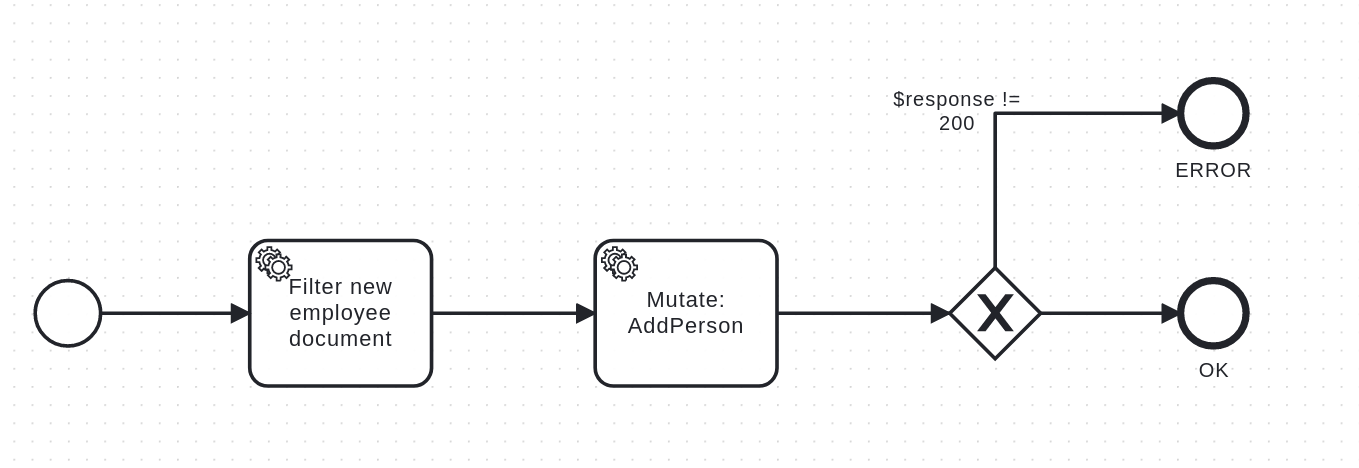
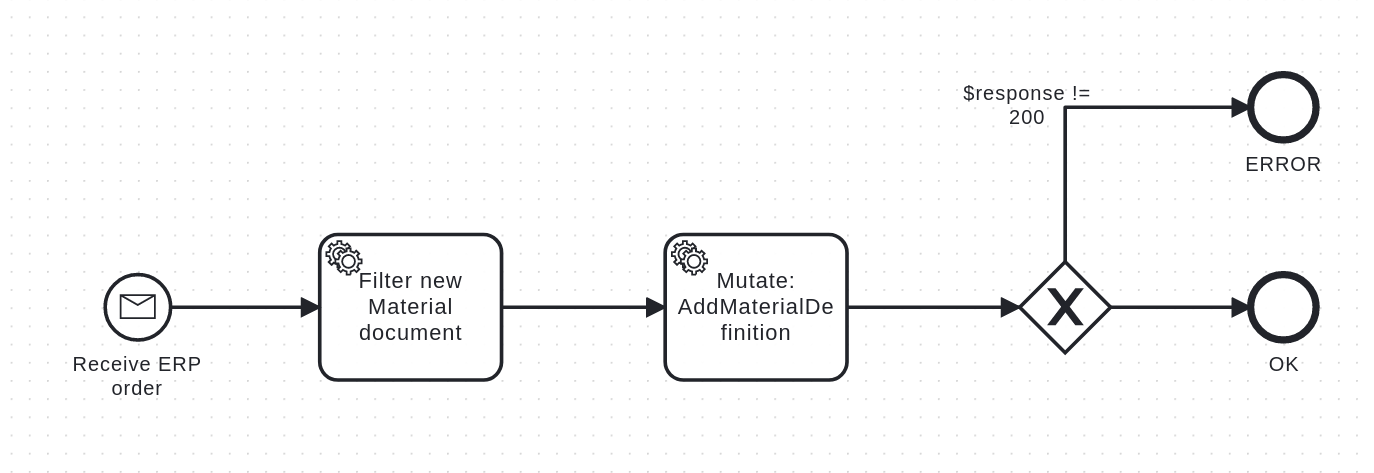
Deploy preview for PR 38 🛫

diff --git a/pr-preview/pr-38/how-to/create-workflows/create-bmpn/index.html b/pr-preview/pr-38/how-to/create-workflows/create-bmpn/index.html
@@ -1,13 +1,31 @@
 <!doctype html><html lang=en class="js csstransforms3d"><head><script></script><meta charset=utf-8><meta name=viewport content="width=device-width,initial-scale=1,maximum-scale=1,user-scalable=no"><meta name=referrer content="no-referrer-when-downgrade"><meta property="og:image" content="https://libremfg.github.io/images/rhize-logo.png"><meta property="og:type" content="website"><meta property="og:title" content><meta property="og:site_name" content><meta property="og:url" content="https://libremfg.github.io/how-to/create-workflows/create-bmpn/"><meta property="og:locale" content="en"><meta name=generator content="Hugo 0.120.4"><meta name=description content="Create BPMN workflows to handle inputs, react to events, process data, and throw triggers."><link rel=canonical href=https://libremfg.github.io/how-to/create-workflows/create-bmpn/><link rel=apple-touch-icon sizes=57x57 href=https://libremfg.github.io/images/favicons/apple-touch-icon-57x57.png><link rel=apple-touch-icon sizes=60x60 href=https://libremfg.github.io/images/favicons/apple-touch-icon-60x60.png><link rel=apple-touch-icon sizes=72x72 href=https://libremfg.github.io/images/favicons/apple-touch-icon-72x72.png><link rel=apple-touch-icon sizes=76x76 href=https://libremfg.github.io/images/favicons/apple-touch-icon-76x76.png><link rel=apple-touch-icon sizes=114x114 href=https://libremfg.github.io/images/favicons/apple-touch-icon-114x114.png><link rel=apple-touch-icon sizes=120x120 href=https://libremfg.github.io/images/favicons/apple-touch-icon-120x120.png><link rel=apple-touch-icon sizes=144x144 href=https://libremfg.github.io/images/favicons/apple-touch-icon-144x144.png><link rel=apple-touch-icon sizes=152x152 href=https://libremfg.github.io/images/favicons/apple-touch-icon-152x152.png><link rel=apple-touch-icon sizes=180x180 href=https://libremfg.github.io/images/favicons/apple-touch-icon-180x180.png><link rel=icon type=image/png href=https://libremfg.github.io/images/favicons/favicon-32x32.png sizes=32x32><link rel=icon type=image/png href=https://libremfg.github.io/images/favicons/android-chrome-192x192.png sizes=192x192><link rel=icon type=image/png href=https://libremfg.github.io/images/favicons/favicon-96x96.png sizes=96x96><link rel=icon type=image/png href=https://libremfg.github.io/images/favicons/favicon-16x16.png sizes=16x16><link rel=manifest href=https://libremfg.github.io/images/favicons/manifest.json><link rel=mask-icon href=https://libremfg.github.io/images/favicons/safari-pinned-tab.svg color=#fe2c06><link rel="shortcut icon" href=https://libremfg.github.io/images/favicons/favicon.ico><link rel=stylesheet href=//cdnjs.cloudflare.com/ajax/libs/highlight.js/9.10.0/styles/default.min.css><script src=//cdnjs.cloudflare.com/ajax/libs/highlight.js/9.10.0/highlight.min.js></script><script async src=//cdnjs.cloudflare.com/ajax/libs/highlight.js/9.10.0/languages/go.min.js></script><script async src=//cdnjs.cloudflare.com/ajax/libs/highlight.js/9.10.0/languages/java.min.js integrity="sha256-RyOs5MjQ+Ef9DQrPHp4QGr2tcNjxLh6mCkkW+sS4doU=" crossorigin=anonymous></script><script src=//code.jquery.com/jquery-3.2.1.min.js integrity="sha256-hwg4gsxgFZhOsEEamdOYGBf13FyQuiTwlAQgxVSNgt4=" crossorigin=anonymous></script><script src=//cdnjs.cloudflare.com/ajax/libs/codemirror/5.25.0/codemirror.js integrity="sha256-x3BtPVERvw1ozPlwivuFLZoViFCeAAs1Gt6SxEedmo8=" crossorigin=anonymous></script><link href=//cdnjs.cloudflare.com/ajax/libs/codemirror/5.25.0/codemirror.css rel=stylesheet integrity="sha256-7sZe9dsqyNZC9Mk+WPRB7nVvPPPXyorzm2QKqlgXC4k=" crossorigin=anonymous><script async src=//cdnjs.cloudflare.com/ajax/libs/codemirror/5.25.0/addon/edit/closebrackets.min.js integrity="sha256-qhu2a7DSpQaammMaLw1iruxBpxmgdw8mdQaQWQUokcY=" crossorigin=anonymous></script><script async src=//cdnjs.cloudflare.com/ajax/libs/codemirror/5.25.0/mode/javascript/javascript.min.js integrity="sha256-7Bdg/UdDMmHDPafpQDYZNPCEbnRP7eAvu+2hEoqRCXs=" crossorigin=anonymous></script><title>Create BPMN workflows - How to
-</title><link href=https://libremfg.github.io/css/theme.css?d60bfe25dc4f4f799f6192d27a65dc20 rel=stylesheet><link href=https://libremfg.github.io/css/runnable.css?46648956d99faa2e057d109b9f2a52e6 rel=stylesheet><link href=https://libremfg.github.io/css/tabs.css?035edc32762cb7973b740e3067101ced rel=stylesheet><link href=//maxcdn.bootstrapcdn.com/bootstrap/4.0.0-alpha.6/css/bootstrap.min.css rel=stylesheet integrity=sha384-rwoIResjU2yc3z8GV/NPeZWAv56rSmLldC3R/AZzGRnGxQQKnKkoFVhFQhNUwEyJ crossorigin=anonymous><script src=//cdnjs.cloudflare.com/ajax/libs/tether/1.4.0/js/tether.min.js integrity=sha384-DztdAPBWPRXSA/3eYEEUWrWCy7G5KFbe8fFjk5JAIxUYHKkDx6Qin1DkWx51bBrb crossorigin=anonymous></script><script src=//maxcdn.bootstrapcdn.com/bootstrap/4.0.0-alpha.6/js/bootstrap.min.js integrity=sha384-vBWWzlZJ8ea9aCX4pEW3rVHjgjt7zpkNpZk+02D9phzyeVkE+jo0ieGizqPLForn crossorigin=anonymous></script><link href="//fonts.googleapis.com/css?family=Lato:400,700" rel=stylesheet><link href=//maxcdn.bootstrapcdn.com/font-awesome/4.7.0/css/font-awesome.min.css rel=stylesheet integrity=sha384-wvfXpqpZZVQGK6TAh5PVlGOfQNHSoD2xbE+QkPxCAFlNEevoEH3Sl0sibVcOQVnN crossorigin=anonymous><link href=https://cdn.lineicons.com/2.0/LineIcons.css rel=stylesheet crossorigin=anonymous><link rel=stylesheet href=//cdn.jsdelivr.net/npm/docsearch.js@2/dist/cdn/docsearch.min.css></head><body><nav id=header><div class=header-left><div><a href=https://libremfg.github.io/get-started/introduction class=brand><img src=https://libremfg.github.io/images/rhize-logo.png alt=RHIZE class=logo></a><div class=logo-tagline><span>DRAFT Documentation</span></div></div></div><div class=header-right><div style=margin-top:10px><div class="menu-search align-middle"><div class=menu-search-inner><input type=search class="form-control form-control-sm" placeholder="Search documentation" aria-label="Search docs" autocomplete=off></div></div></div><div><ul class=menu><li><a href=https://libremfg.com/features-gql target=_blank>Home</a></li><li><a href=https://discord.gg/ZRpUBXmrkV target=_blank>Community</a></li><li><a href=https://github.com/libremfg/libremfg.github.io target=_blank>GitHub</a></li></ul></div></div><a href=# id=sidebar-toggle><i class="fa fa-bars"></i></a></nav><aside id=sidebar><ul class=topics><li class="topic main-topic children"><a id=get-started href=#>Get started</a><div class=arrow-down></div><ul class=sub-topics><li class="topic sub-topic"><a href=https://libremfg.github.io/get-started/introduction/>What is Rhize?</a></li><li class="topic sub-topic"><a href=https://libremfg.github.io/get-started/how-rhize-works/>How Rhize works</a></li></ul></li><li class="topic main-topic children"><a id=deploy href=#>Deploy</a><div class=arrow-down></div><ul class=sub-topics><li class="topic sub-topic"><a href=#>Install</a><div class=arrow-down></div><ul class=sub-topics><li class="topic sub-topic"><a href=https://libremfg.github.io/deploy/install/overview/>Overview</a></li><li class="topic sub-topic"><a href=https://libremfg.github.io/deploy/install/setup-kubernetes/>Set up Kubernetes</a></li><li class="topic sub-topic"><a href=https://libremfg.github.io/deploy/install/keycloak/>Configure Keycloak</a></li><li class="topic sub-topic"><a href=https://libremfg.github.io/deploy/install/services/>Install Rhize services</a></li></ul></li><li class="topic sub-topic"><a href=#>Back up</a><div class=arrow-down></div><ul class=sub-topics><li class="topic sub-topic"><a href=https://libremfg.github.io/deploy/backup/graphdb/>Back up the Graph DB</a></li><li class="topic sub-topic"><a href=https://libremfg.github.io/deploy/backup/grafana/>Back up Grafana</a></li></ul></li><li class="topic sub-topic"><a href=#>Restore</a><div class=arrow-down></div><ul class=sub-topics><li class="topic sub-topic"><a href=https://libremfg.github.io/deploy/restore/graphdb/>Restore the GraphDB</a></li><li class="topic sub-topic"><a href=https://libremfg.github.io/deploy/restore/grafana/>Restore Grafana</a></li><li class="topic sub-topic"><a href=https://libremfg.github.io/deploy/restore/bpmn-nodes/>BPMN execution recovery</a></li></ul></li><li class="topic sub-topic"><a href=https://libremfg.github.io/deploy/upgrade/>Upgrade</a></li><li class="topic sub-topic"><a href=https://libremfg.github.io/deploy/about-openidconnect/>About OpenID connect</a></li></ul></li><li class="topic main-topic children active"><a id=user-guides href=#>User guides</a><div class=arrow-down></div><ul class=sub-topics><li class="topic sub-topic"><a href=#>Define production models</a><div class=arrow-down></div><ul class=sub-topics><li class="topic sub-topic"><a href=https://libremfg.github.io/how-to/define-models/create-objects-ui/>Create objects from the UI</a></li><li class="topic sub-topic"><a href=https://libremfg.github.io/how-to/define-models/master-definitions/>Master definitions and fields</a></li></ul></li><li class="topic sub-topic"><a href=#>Connect process events</a><div class=arrow-down></div><ul class=sub-topics><li class="topic sub-topic"><a href=https://libremfg.github.io/how-to/publish-subscribe/track-changes/>Track changes (CDC)</a></li></ul></li><li class="topic sub-topic active"><a href=#>Handle events</a><div class=arrow-down></div><ul class=sub-topics><li class="topic sub-topic active"><a href=https://libremfg.github.io/how-to/create-workflows/create-bmpn/>Create BPMN workflows</a></li><li class="topic sub-topic"><a href=https://libremfg.github.io/how-to/create-workflows/bpmn-elements/>BMPN elements</a></li></ul></li><li class="topic sub-topic"><a href=#>Query the knowledge graph</a><div class=arrow-down></div><ul class=sub-topics><li class="topic sub-topic"><a href=https://libremfg.github.io/how-to/query/directives/>Directives</a></li><li class="topic sub-topic"><a href=https://libremfg.github.io/how-to/query/default/>Use the @default Directive</a></li><li class="topic sub-topic"><a href=https://libremfg.github.io/how-to/query/generate/>The @generate Directive</a></li></ul></li></ul></li><li class="topic main-topic children"><a id=reference href=#>Reference</a><div class=arrow-down></div><ul class=sub-topics><li class="topic sub-topic"><a href=https://libremfg.github.io/reference/agent-configuration/>Agent configuration</a></li><li class="topic sub-topic"><a href=https://libremfg.github.io/reference/default-ports/>Default local ports</a></li><li class="topic sub-topic"><a href=https://libremfg.github.io/reference/glossary/>Glossary</a></li></ul></li><li class="topic main-topic children"><a id=concepts href=#>Concepts</a><div class=arrow-down></div><ul class=sub-topics><li class="topic sub-topic"><a href=#>DataHub</a><div class=arrow-down></div><ul class=sub-topics><li class="topic sub-topic"><a href=https://libremfg.github.io/concepts/datahub/overview/>Overview</a></li></ul></li><li class="topic sub-topic"><a href=#>Architecture</a><div class=arrow-down></div><ul class=sub-topics><li class="topic sub-topic"><a href=https://libremfg.github.io/concepts/overview/>Overview</a></li><li class="topic sub-topic"><a href=https://libremfg.github.io/concepts/architecture/realtime-database/>Realtime Database</a></li><li class="topic sub-topic"><a href=https://libremfg.github.io/concepts/architecture/data-hub/>Data Hub Architecture</a></li><li class="topic sub-topic"><a href=https://libremfg.github.io/concepts/architecture/eda/>Event Driven Architecture</a></li><li class="topic sub-topic"><a href=https://libremfg.github.io/concepts/architecture/business-process-orchestration/>Business Process Orchestration</a></li></ul></li><li class="topic sub-topic"><a href=#>ISA 95</a><div class=arrow-down></div><ul class=sub-topics><li class="topic sub-topic"><a href=https://libremfg.github.io/concepts/isa95/operationsevents/>Operations Events</a></li></ul></li></ul></li><li class="topic main-topic children"><a id=releases href=#>Releases</a><div class=arrow-down></div><ul class=sub-topics><li class="topic sub-topic"><a href=https://libremfg.github.io/releases/3-0-0rc07/>3.0.0rc07</a></li><li class="topic sub-topic"><a href=https://libremfg.github.io/releases/3-0-0rc06/>3.0.0rc06</a></li><li class="topic sub-topic"><a href=https://libremfg.github.io/releases/3-0-0rc05/>3.0.0rc05</a></li></ul></li><li class="topic main-topic"><a href=https://libremfg.github.io/>Home</a></li></ul><ul class=sidebar-menu><li><a href=https://rhize.com/ target=_blank>Home</a></li><li><a href=https://discord.gg/ZRpUBXmrkV target=_blank>Community</a></li><li><a href=https://github.com/libremfg/ target=_blank>GitHub</a></li></ul></aside></body></html><main class=content-wrapper><div class=content><div class=top-toc><nav id=TableOfContents><ul><li><a href=#prerequisites>Prerequisites</a></li><li><a href=#general-procedures>General procedures</a></li><li><a href=#examples>Examples</a><ul><li><a href=#build-an-alert>Build an Alert</a></li><li><a href=#write-quantities-to-the-database>Write quantities to the database</a></li><li><a href=#invoke-other-bpmn-workflows>Invoke other BPMN workflows</a></li></ul></li></ul></nav></div><article><a class=question-btn target=_blank href=https://discord.gg/ZRpUBXmrkV><i class="fa fa-question-circle"></i> Ask a Question</a><h1 class=post-title>Create BPMN workflows</h1><div><p>This topic shows you how to use the BPMN UI to create event-driven workflows.</p><h2 id=prerequisites>Prerequisites</h2><p>To create a workflow, you&rsquo;ll need:</p><ul><li><a href=https://libremfg.github.io/deploy/install>An installed environment</a></li><li><a href=https://libremfg.github.io/how-to/publish-subscribe/>Topics to publish and subscribe to</a></li><li>The ability to <a href=https://libremfg.github.io/how-to/query/>call the GraphQL API</a> and understand JSON.</li></ul><h2 id=general-procedures>General procedures</h2><p>The following sections cover some particulars to use each element.
-To view the full list of elements and everything you can configure, refer to the <a href=https://libremfg.github.io/how-to/create-workflows/bpmn-elements/>BPMN elements</a>.</p><ol><li><p>Create a start event:</p><ol><li>Select a single thin circle (<code>Start</code>) and drag it your process space.</li><li>If the process is subscribing to a topic, in the <strong>Message > Name</strong> field, add the topic you want to subscribe to. For example, <code>/orders/*/sap</code>.</li></ol></li><li><p>Use tasks to process and filter data:</p><table><thead><tr><th>If you want to&mldr;</th><th>Use this BPMN activity</th></tr></thead><tbody><tr><td>Filter the contents of a message</td><td><a href=https://libremfg.github.io/how-to/create-workflows/bpmn-elements/#jsonata-transform%22>JSONata transform</a>.</td></tr><tr><td>Call the GraphQL API</td><td>GraphQL <a href=https://libremfg.github.io/how-to/create-workflows/bpmn-elements/#graphql-query%22>query</a> or <a href=https://libremfg.github.io/how-to/create-workflows/bpmn-elements/#graphql-mutation%22>mutation</a></td></tr><tr><td>Call another BPMN workflow</td><td><a href=https://libremfg.github.io/how-to/create-workflows/bpmn-elements/#call-activity)>Call activity</a></td></tr></tbody></table></li><li><p>Create conditions with gateways:</p><ol><li>Draw flows from this gateway to the elements that represents conditional results.</li><li>Create a JSONata expression in the flow to define the evaluation criteria.</li></ol><table><thead><tr><th>If you want to&mldr;</th><th>Use this Gateway</th></tr></thead><tbody><tr><td>Add a conditional flow</td><td><a href=https://libremfg.github.io/how-to/create-workflows/bpmn-elements/#exclusive-gateway%22>Exclusive gateway</a>.</td></tr><tr><td>Run processes in parallel</td><td><a href=https://libremfg.github.io/how-to/create-workflows/bpmn-elements/#parallel-gateway%22>Parallel gateway</a>.</td></tr></tbody></table></li><li><p>To run the workflow, toggle the <strong>Enabled</strong> switch.</p></li></ol><h2 id=examples>Examples</h2><p>These workflows demonstrate the minimum work needed to create some useful process.</p><h3 id=build-an-alert>Build an Alert</h3><p>This workflow sends an alert if the oven temperature is greater than 400 degrees.
-<img src=https://libremfg.github.io/images/bpmn/screenshot-rhize-temp-alert-bpmn-example.png alt="Full BPMN diagram for a temperature alert" width=60%></p><ol><li><p>Create a message start event that subscribes to the correct topic (for example, <code>oven1/sensors/thermometer</code>).</p></li><li><p>Connect the start event to a task. For <strong>Template</strong>, choose <code>JSONata transform</code>.</p></li><li><p>In <strong>JSONata transform expression</strong>, write an expression to evaluate whether the temp exceeds 400 (for example: <code>readings.temp > 100</code>).
+</title><link href=https://libremfg.github.io/css/theme.css?d60bfe25dc4f4f799f6192d27a65dc20 rel=stylesheet><link href=https://libremfg.github.io/css/runnable.css?46648956d99faa2e057d109b9f2a52e6 rel=stylesheet><link href=https://libremfg.github.io/css/tabs.css?035edc32762cb7973b740e3067101ced rel=stylesheet><link href=//maxcdn.bootstrapcdn.com/bootstrap/4.0.0-alpha.6/css/bootstrap.min.css rel=stylesheet integrity=sha384-rwoIResjU2yc3z8GV/NPeZWAv56rSmLldC3R/AZzGRnGxQQKnKkoFVhFQhNUwEyJ crossorigin=anonymous><script src=//cdnjs.cloudflare.com/ajax/libs/tether/1.4.0/js/tether.min.js integrity=sha384-DztdAPBWPRXSA/3eYEEUWrWCy7G5KFbe8fFjk5JAIxUYHKkDx6Qin1DkWx51bBrb crossorigin=anonymous></script><script src=//maxcdn.bootstrapcdn.com/bootstrap/4.0.0-alpha.6/js/bootstrap.min.js integrity=sha384-vBWWzlZJ8ea9aCX4pEW3rVHjgjt7zpkNpZk+02D9phzyeVkE+jo0ieGizqPLForn crossorigin=anonymous></script><link href="//fonts.googleapis.com/css?family=Lato:400,700" rel=stylesheet><link href=//maxcdn.bootstrapcdn.com/font-awesome/4.7.0/css/font-awesome.min.css rel=stylesheet integrity=sha384-wvfXpqpZZVQGK6TAh5PVlGOfQNHSoD2xbE+QkPxCAFlNEevoEH3Sl0sibVcOQVnN crossorigin=anonymous><link href=https://cdn.lineicons.com/2.0/LineIcons.css rel=stylesheet crossorigin=anonymous><link rel=stylesheet href=//cdn.jsdelivr.net/npm/docsearch.js@2/dist/cdn/docsearch.min.css></head><body><nav id=header><div class=header-left><div><a href=https://libremfg.github.io/get-started/introduction class=brand><img src=https://libremfg.github.io/images/rhize-logo.png alt=RHIZE class=logo></a><div class=logo-tagline><span>DRAFT Documentation</span></div></div></div><div class=header-right><div style=margin-top:10px><div class="menu-search align-middle"><div class=menu-search-inner><input type=search class="form-control form-control-sm" placeholder="Search documentation" aria-label="Search docs" autocomplete=off></div></div></div><div><ul class=menu><li><a href=https://libremfg.com/features-gql target=_blank>Home</a></li><li><a href=https://discord.gg/ZRpUBXmrkV target=_blank>Community</a></li><li><a href=https://github.com/libremfg/libremfg.github.io target=_blank>GitHub</a></li></ul></div></div><a href=# id=sidebar-toggle><i class="fa fa-bars"></i></a></nav><aside id=sidebar><ul class=topics><li class="topic main-topic children"><a id=get-started href=#>Get started</a><div class=arrow-down></div><ul class=sub-topics><li class="topic sub-topic"><a href=https://libremfg.github.io/get-started/introduction/>What is Rhize?</a></li><li class="topic sub-topic"><a href=https://libremfg.github.io/get-started/how-rhize-works/>How Rhize works</a></li></ul></li><li class="topic main-topic children"><a id=deploy href=#>Deploy</a><div class=arrow-down></div><ul class=sub-topics><li class="topic sub-topic"><a href=#>Install</a><div class=arrow-down></div><ul class=sub-topics><li class="topic sub-topic"><a href=https://libremfg.github.io/deploy/install/overview/>Overview</a></li><li class="topic sub-topic"><a href=https://libremfg.github.io/deploy/install/setup-kubernetes/>Set up Kubernetes</a></li><li class="topic sub-topic"><a href=https://libremfg.github.io/deploy/install/keycloak/>Configure Keycloak</a></li><li class="topic sub-topic"><a href=https://libremfg.github.io/deploy/install/services/>Install Rhize services</a></li></ul></li><li class="topic sub-topic"><a href=#>Back up</a><div class=arrow-down></div><ul class=sub-topics><li class="topic sub-topic"><a href=https://libremfg.github.io/deploy/backup/graphdb/>Back up the Graph DB</a></li><li class="topic sub-topic"><a href=https://libremfg.github.io/deploy/backup/grafana/>Back up Grafana</a></li></ul></li><li class="topic sub-topic"><a href=#>Restore</a><div class=arrow-down></div><ul class=sub-topics><li class="topic sub-topic"><a href=https://libremfg.github.io/deploy/restore/graphdb/>Restore the GraphDB</a></li><li class="topic sub-topic"><a href=https://libremfg.github.io/deploy/restore/grafana/>Restore Grafana</a></li><li class="topic sub-topic"><a href=https://libremfg.github.io/deploy/restore/bpmn-nodes/>BPMN execution recovery</a></li></ul></li><li class="topic sub-topic"><a href=https://libremfg.github.io/deploy/upgrade/>Upgrade</a></li><li class="topic sub-topic"><a href=https://libremfg.github.io/deploy/about-openidconnect/>About OpenID connect</a></li></ul></li><li class="topic main-topic children active"><a id=user-guides href=#>User guides</a><div class=arrow-down></div><ul class=sub-topics><li class="topic sub-topic"><a href=#>Define production models</a><div class=arrow-down></div><ul class=sub-topics><li class="topic sub-topic"><a href=https://libremfg.github.io/how-to/define-models/create-objects-ui/>Create objects from the UI</a></li><li class="topic sub-topic"><a href=https://libremfg.github.io/how-to/define-models/master-definitions/>Master definitions and fields</a></li></ul></li><li class="topic sub-topic"><a href=#>Connect process events</a><div class=arrow-down></div><ul class=sub-topics><li class="topic sub-topic"><a href=https://libremfg.github.io/how-to/publish-subscribe/track-changes/>Track changes (CDC)</a></li></ul></li><li class="topic sub-topic active"><a href=#>Handle events</a><div class=arrow-down></div><ul class=sub-topics><li class="topic sub-topic active"><a href=https://libremfg.github.io/how-to/create-workflows/create-bmpn/>Create BPMN workflows</a></li><li class="topic sub-topic"><a href=https://libremfg.github.io/how-to/create-workflows/bpmn-elements/>BMPN elements</a></li></ul></li><li class="topic sub-topic"><a href=#>Query the knowledge graph</a><div class=arrow-down></div><ul class=sub-topics><li class="topic sub-topic"><a href=https://libremfg.github.io/how-to/query/directives/>Directives</a></li><li class="topic sub-topic"><a href=https://libremfg.github.io/how-to/query/default/>Use the @default Directive</a></li><li class="topic sub-topic"><a href=https://libremfg.github.io/how-to/query/generate/>The @generate Directive</a></li></ul></li></ul></li><li class="topic main-topic children"><a id=reference href=#>Reference</a><div class=arrow-down></div><ul class=sub-topics><li class="topic sub-topic"><a href=https://libremfg.github.io/reference/agent-configuration/>Agent configuration</a></li><li class="topic sub-topic"><a href=https://libremfg.github.io/reference/default-ports/>Default local ports</a></li><li class="topic sub-topic"><a href=https://libremfg.github.io/reference/glossary/>Glossary</a></li></ul></li><li class="topic main-topic children"><a id=concepts href=#>Concepts</a><div class=arrow-down></div><ul class=sub-topics><li class="topic sub-topic"><a href=#>DataHub</a><div class=arrow-down></div><ul class=sub-topics><li class="topic sub-topic"><a href=https://libremfg.github.io/concepts/datahub/overview/>Overview</a></li></ul></li><li class="topic sub-topic"><a href=#>Architecture</a><div class=arrow-down></div><ul class=sub-topics><li class="topic sub-topic"><a href=https://libremfg.github.io/concepts/overview/>Overview</a></li><li class="topic sub-topic"><a href=https://libremfg.github.io/concepts/architecture/realtime-database/>Realtime Database</a></li><li class="topic sub-topic"><a href=https://libremfg.github.io/concepts/architecture/data-hub/>Data Hub Architecture</a></li><li class="topic sub-topic"><a href=https://libremfg.github.io/concepts/architecture/eda/>Event Driven Architecture</a></li><li class="topic sub-topic"><a href=https://libremfg.github.io/concepts/architecture/business-process-orchestration/>Business Process Orchestration</a></li></ul></li><li class="topic sub-topic"><a href=#>ISA 95</a><div class=arrow-down></div><ul class=sub-topics><li class="topic sub-topic"><a href=https://libremfg.github.io/concepts/isa95/operationsevents/>Operations Events</a></li></ul></li></ul></li><li class="topic main-topic children"><a id=releases href=#>Releases</a><div class=arrow-down></div><ul class=sub-topics><li class="topic sub-topic"><a href=https://libremfg.github.io/releases/3-0-0rc07/>3.0.0rc07</a></li><li class="topic sub-topic"><a href=https://libremfg.github.io/releases/3-0-0rc06/>3.0.0rc06</a></li><li class="topic sub-topic"><a href=https://libremfg.github.io/releases/3-0-0rc05/>3.0.0rc05</a></li></ul></li><li class="topic main-topic"><a href=https://libremfg.github.io/>Home</a></li></ul><ul class=sidebar-menu><li><a href=https://rhize.com/ target=_blank>Home</a></li><li><a href=https://discord.gg/ZRpUBXmrkV target=_blank>Community</a></li><li><a href=https://github.com/libremfg/ target=_blank>GitHub</a></li></ul></aside></body></html><main class=content-wrapper><div class=content><div class=top-toc><nav id=TableOfContents><ul><li><a href=#prerequisites>Prerequisites</a></li><li><a href=#general-procedures>General procedures</a></li><li><a href=#examples>Examples</a><ul><li><a href=#build-an-alert>Build an Alert</a></li><li><a href=#write-quantities-to-the-database>Write quantities to the database</a></li><li><a href=#invoke-other-bpmn-workflows>Invoke other BPMN workflows</a></li></ul></li></ul></nav></div><article><a class=question-btn target=_blank href=https://discord.gg/ZRpUBXmrkV><i class="fa fa-question-circle"></i> Ask a Question</a><h1 class=post-title>Create BPMN workflows</h1><div><p>This topic shows you how to use the BPMN UI to create event-driven workflows.
+To view the full list of elements and their parameters, refer to the <a href=https://libremfg.github.io/how-to/create-workflows/bpmn-elements/>BPMN elements</a>.</p><h2 id=prerequisites>Prerequisites</h2><p>To create a workflow, you&rsquo;ll need:</p><ul><li><a href=https://libremfg.github.io/deploy/install>An installed environment</a></li><li><a href=https://libremfg.github.io/how-to/publish-subscribe/>Topics to publish and subscribe to</a></li><li>The ability to <a href=https://libremfg.github.io/how-to/query/>call the GraphQL API</a> and understand JSON.</li></ul><h2 id=general-procedures>General procedures</h2><p>Every workflow is different, but the overall procedure usually works like this:</p><ol><li><p>Create a start event:</p><ol><li>Select a single thin circle (<code>Start</code>) and drag it your process space.</li><li>If the process is subscribing to a topic, in the <strong>Message > Name</strong> field, add the topic you want to subscribe to. For example, <code>/orders/*/sap</code>.</li></ol></li><li><p>Use tasks to process and filter data:</p><table><thead><tr><th>If you want to&mldr;</th><th>Use this BPMN activity</th></tr></thead><tbody><tr><td>Filter the contents of a message</td><td><a href=https://libremfg.github.io/how-to/create-workflows/bpmn-elements/#jsonata-transform%22>JSONata transform</a>.</td></tr><tr><td>Call the GraphQL API</td><td>GraphQL <a href=https://libremfg.github.io/how-to/create-workflows/bpmn-elements/#graphql-query%22>query</a> or <a href=https://libremfg.github.io/how-to/create-workflows/bpmn-elements/#graphql-mutation%22>mutation</a></td></tr><tr><td>Call another BPMN workflow</td><td><a href=https://libremfg.github.io/how-to/create-workflows/bpmn-elements/#call-activity)>Call activity</a></td></tr></tbody></table></li><li><p>Create <a href=https://libremfg.github.io/how-to/create-workflows/bpmn-elements/#exclusive-gateway>conditional flows</a> and <a href=https://libremfg.github.io/how-to/create-workflows/bpmn-elements/#parallel-gateway>parallel processes</a> with gateways. To establish a condition, write a JSONata expression in the arrow that leads to the conditional result.</p></li><li><p>To run the workflow, toggle the <strong>Enabled</strong> switch.</p></li></ol><h2 id=examples>Examples</h2><p>These workflows demonstrate the minimum work needed to create some useful process.</p><h3 id=build-an-alert>Build an Alert</h3><p>This workflow publishes an alert if a reading from an oven sensor exceeds 100 degrees.
+<img src=https://libremfg.github.io/images/bpmn/screenshot-rhize-temp-alert-bpmn-example.png alt="Full BPMN diagram for a temperature alert" width=60%></p><ol><li><p>Create a message start event that subscribes to the correct topic (for example, <code>oven1/sensors/thermometer</code>).</p></li><li><p>Connect the start event to a task. For <strong>Template</strong>, choose <code>JSONata transform</code>.</p></li><li><p>In <strong>JSONata transform expression</strong>, write an expression to evaluate whether the temp exceeds 100 (for example: <code>readings.temp > 100</code>).
 Name the output variable <code>highTemp</code>.</p></li><li><p>Connect the JSONata task to an exclusive gateway.</p></li><li><p>Connect the gateway to an intermediate message event.</p></li><li><p>In the flow that connects the gateway and the intermediate message event, add this condition: <code>= $.highTemp</code>.</p><p><img src=https://libremfg.github.io/images/bpmn/screenshot-rhize-condition-jsonata-expression.png alt="Screenshot of the JSONata condition syntax in a flow" width=20%></p></li><li><p>In the intermediate message event, add the topic to publish the alert to.</p><p>In the <strong>Inputs</strong> field, add the message body. Use <code>BODY</code> for the local variable name and something like this for the <strong>Variable assignment value</strong>:</p><div class=highlight><pre tabindex=0 style=background-color:#fff;-moz-tab-size:4;-o-tab-size:4;tab-size:4><code class=language-json data-lang=json><span style=display:flex><span>{&#34;message&#34;:<span style=color:#a31515>&#34;Temperature exceeded 100 degrees&#34;</span>}
-</span></span></code></pre></div></li><li><p>Add <strong>End</strong> events to the gateway and to the message event.</p></li></ol><h3 id=write-quantities-to-the-database>Write quantities to the database</h3><p>This workflow receives information from the ERP system about a new employee, extracts the values, then creates a new person in the database.
-For simplicity, assume the order has only these properties:</p><p><img src=https://libremfg.github.io/images/bpmn/screenshot-rhize-bpmn-graphql.png alt="Full BPMN diagram for a GraphQL service task" width=60%></p><div class=highlight><pre tabindex=0 style=background-color:#fff;-moz-tab-size:4;-o-tab-size:4;tab-size:4><code class=language-json data-lang=json><span style=display:flex><span>{
-</span></span><span style=display:flex><span>  &#34;Name&#34;: <span style=color:#a31515>&#34;Jane Smith&#34;</span>,
-</span></span><span style=display:flex><span>  &#34;id&#34;: <span style=color:#a31515>&#34;206460711234-C27&#34;</span>,
-</span></span><span style=display:flex><span>  &#34;Personnel class&#34;: <span style=color:#a31515>&#34;Bakers&#34;</span>,
+</span></span></code></pre></div></li><li><p>Add <strong>End</strong> events to the gateway and to the message event.</p></li></ol><h3 id=write-quantities-to-the-database>Write quantities to the database</h3><p>This workflow receives information from the ERP system about a new <a href=https://libremfg.github.io/how-to/define-models/master-definitions/#material-definition>material definition</a>, extracts the values, then creates a new record in the database.</p><p><img src=https://libremfg.github.io/images/bpmn/screenshot-rhize-bpmn-graphql.png alt="Full BPMN diagram for a GraphQL service task" width=60%></p><p>For simplicity, assume the order has only these properties:</p><div class=highlight><pre tabindex=0 style=background-color:#fff;-moz-tab-size:4;-o-tab-size:4;tab-size:4><code class=language-json data-lang=json><span style=display:flex><span>{
+</span></span><span style=display:flex><span>  &#34;MaterialDefinition&#34;: [
+</span></span><span style=display:flex><span>    {
+</span></span><span style=display:flex><span>      &#34;ID&#34;: <span style=color:#a31515>&#34;RM-8001276&#34;</span>,
+</span></span><span style=display:flex><span>      &#34;Description&#34;: [<span style=color:#a31515>&#34;Sugar small bags 20kg&#34;</span>]
+</span></span><span style=display:flex><span>    }
+</span></span><span style=display:flex><span>  ]
 </span></span><span style=display:flex><span>}
-</span></span></code></pre></div><ol><li>Create a start event that subscribes to the correct topic, for example <code>orders</code>.</li><li>Connect the start event to a JSONATA task saves the input as a variable, $newEmployee.</li><li>Connect the JSONata task to a GraphQL service task.</li><li>Sends <code>$.NewEmployee</code> as the variables for GraphQL mutation, <code>AddPerson</code>.</li><li>Connect the GrapqhQL task to a gateway. Connect this gateway to an <code>Error</code> end event and a normal end event.</li><li>In the flow to the <code>Error</code>, add an evaluation for whether <code>$.Response.status</code> is 201.</li></ol><h3 id=invoke-other-bpmn-workflows>Invoke other BPMN workflows</h3><p>For modularity, you can call workflows that you already defined.</p><ol><li><p>First, from the BPMN menu, note the workflow you want to call.</p></li><li><p>Create a Call activity.</p></li><li><p>In <strong>Called element</strong>, enter the Process ID.</p><p><img alt="Screenshot of a BPMN process invoking a process called CallTask" src=https://libremfg.github.io/images/bpmn/screenshot-rhize-bpmn-called-task-.png width=20%></p></li></ol></div><div class=post__comments><footer class=clearfix><a class=question-btn target=_blank href=https://discord.gg/ZRpUBXmrkV><i class="fa fa-question-circle"></i> Ask a Question
+</span></span></code></pre></div><ol><li>Create a start event that subscribes to the correct topic, for example <code>orders</code>.</li><li>Connect the start event to a JSONATA task saves the input as a variable, <code>newMaterial</code>.</li><li>Connect the JSONata task to a GraphQL service task.</li><li>Send <code>$.newMaterial</code> as the variable for the GraphQL mutation <code>addMaterialDefinition</code>.
+In <strong>Mutation body</strong>Define the operation and fields to return.
+In <strong>Variables,</strong> add the values for the payload.</li></ol><div class=tabs><ul class="nav nav-tabs"></ul><div class=tab-content><div class=tab-pane title=VARIABLES><div class=highlight><pre tabindex=0 style=background-color:#fff;-moz-tab-size:4;-o-tab-size:4;tab-size:4><code class=language-json data-lang=json><span style=display:flex><span>{
+</span></span><span style=display:flex><span>  &#34;input&#34;:
+</span></span><span style=display:flex><span>    { &#34;id&#34;: <span style=color:#a31515>&#34;RM-8001276&#34;</span>,
+</span></span><span style=display:flex><span>    &#34;description&#34;: <span style=color:#a31515>&#34;&#34;</span> }
+</span></span><span style=display:flex><span>}
+</span></span></code></pre></div></div><div class=tab-pane title=MUTATION><div class=highlight><pre tabindex=0 style=background-color:#fff;-moz-tab-size:4;-o-tab-size:4;tab-size:4><code class=language-js data-lang=js><span style=display:flex><span>mutation newMaterial($input: [AddMaterialDefinitionInput!]!) {
+</span></span><span style=display:flex><span>  addMaterialDefinition(input: $input) {
+</span></span><span style=display:flex><span>    materialDefinition {
+</span></span><span style=display:flex><span>      iid
+</span></span><span style=display:flex><span>      id
+</span></span><span style=display:flex><span>      _createdOn
+</span></span><span style=display:flex><span>    }
+</span></span><span style=display:flex><span>  }
+</span></span><span style=display:flex><span>}
+</span></span></code></pre></div></div></div></div><br><p>Finish the workflow with some error handling based on the response:</p><ol><li>Connect the GraphQL task to a gateway. Connect this gateway to two end events, one for error and one for success.</li><li>In the flow to the <code>Error</code>, add an evaluation for whether <code>$.Response.status</code> is 200.</li></ol><h3 id=invoke-other-bpmn-workflows>Invoke other BPMN workflows</h3><p>For modularity, you can call workflows that you already defined.</p><ol><li><p>First, from the BPMN menu, note the ID of the workflow that you want to call.</p></li><li><p>In your new workflow, create a Call activity.</p></li><li><p>In the <strong>Called element</strong> field, enter the Process ID. This example calls a process with an ID <code>tempAlert</code>:</p><p><img alt="Screenshot of a BPMN process invoking a process called CallTask" src=https://libremfg.github.io/images/bpmn/screenshot-rhize-bpmn-called-task-.png width=20%></p></li></ol></div><div class=post__comments><footer class=clearfix><a class=question-btn target=_blank href=https://discord.gg/ZRpUBXmrkV><i class="fa fa-question-circle"></i> Ask a Question
 </a><a class=edit-btn target=_blank href=https://github.com/libremfg/libremfg.github.io/edit/main/content/how-to/create-workflows/create-bmpn.md><i class="fa fa-github-alt"></i> Edit Page</a></footer></div></article><div class=right-toc><nav id=TableOfContents><ul><li><a href=#prerequisites>Prerequisites</a></li><li><a href=#general-procedures>General procedures</a></li><li><a href=#examples>Examples</a><ul><li><a href=#build-an-alert>Build an Alert</a></li><li><a href=#write-quantities-to-the-database>Write quantities to the database</a></li><li><a href=#invoke-other-bpmn-workflows>Invoke other BPMN workflows</a></li></ul></li></ul></nav></div></div></main><script type=text/javascript src=https://cdn.jsdelivr.net/npm/docsearch.js@2/dist/cdn/docsearch.min.js></script><script src=https://libremfg.github.io/js/clipboard.min.js></script><script src=https://libremfg.github.io/js/dgraph.js?a9873668f1334ff6c49d4edea0a4bc38></script><script>hljs.initHighlightingOnLoad()</script></body></html>
